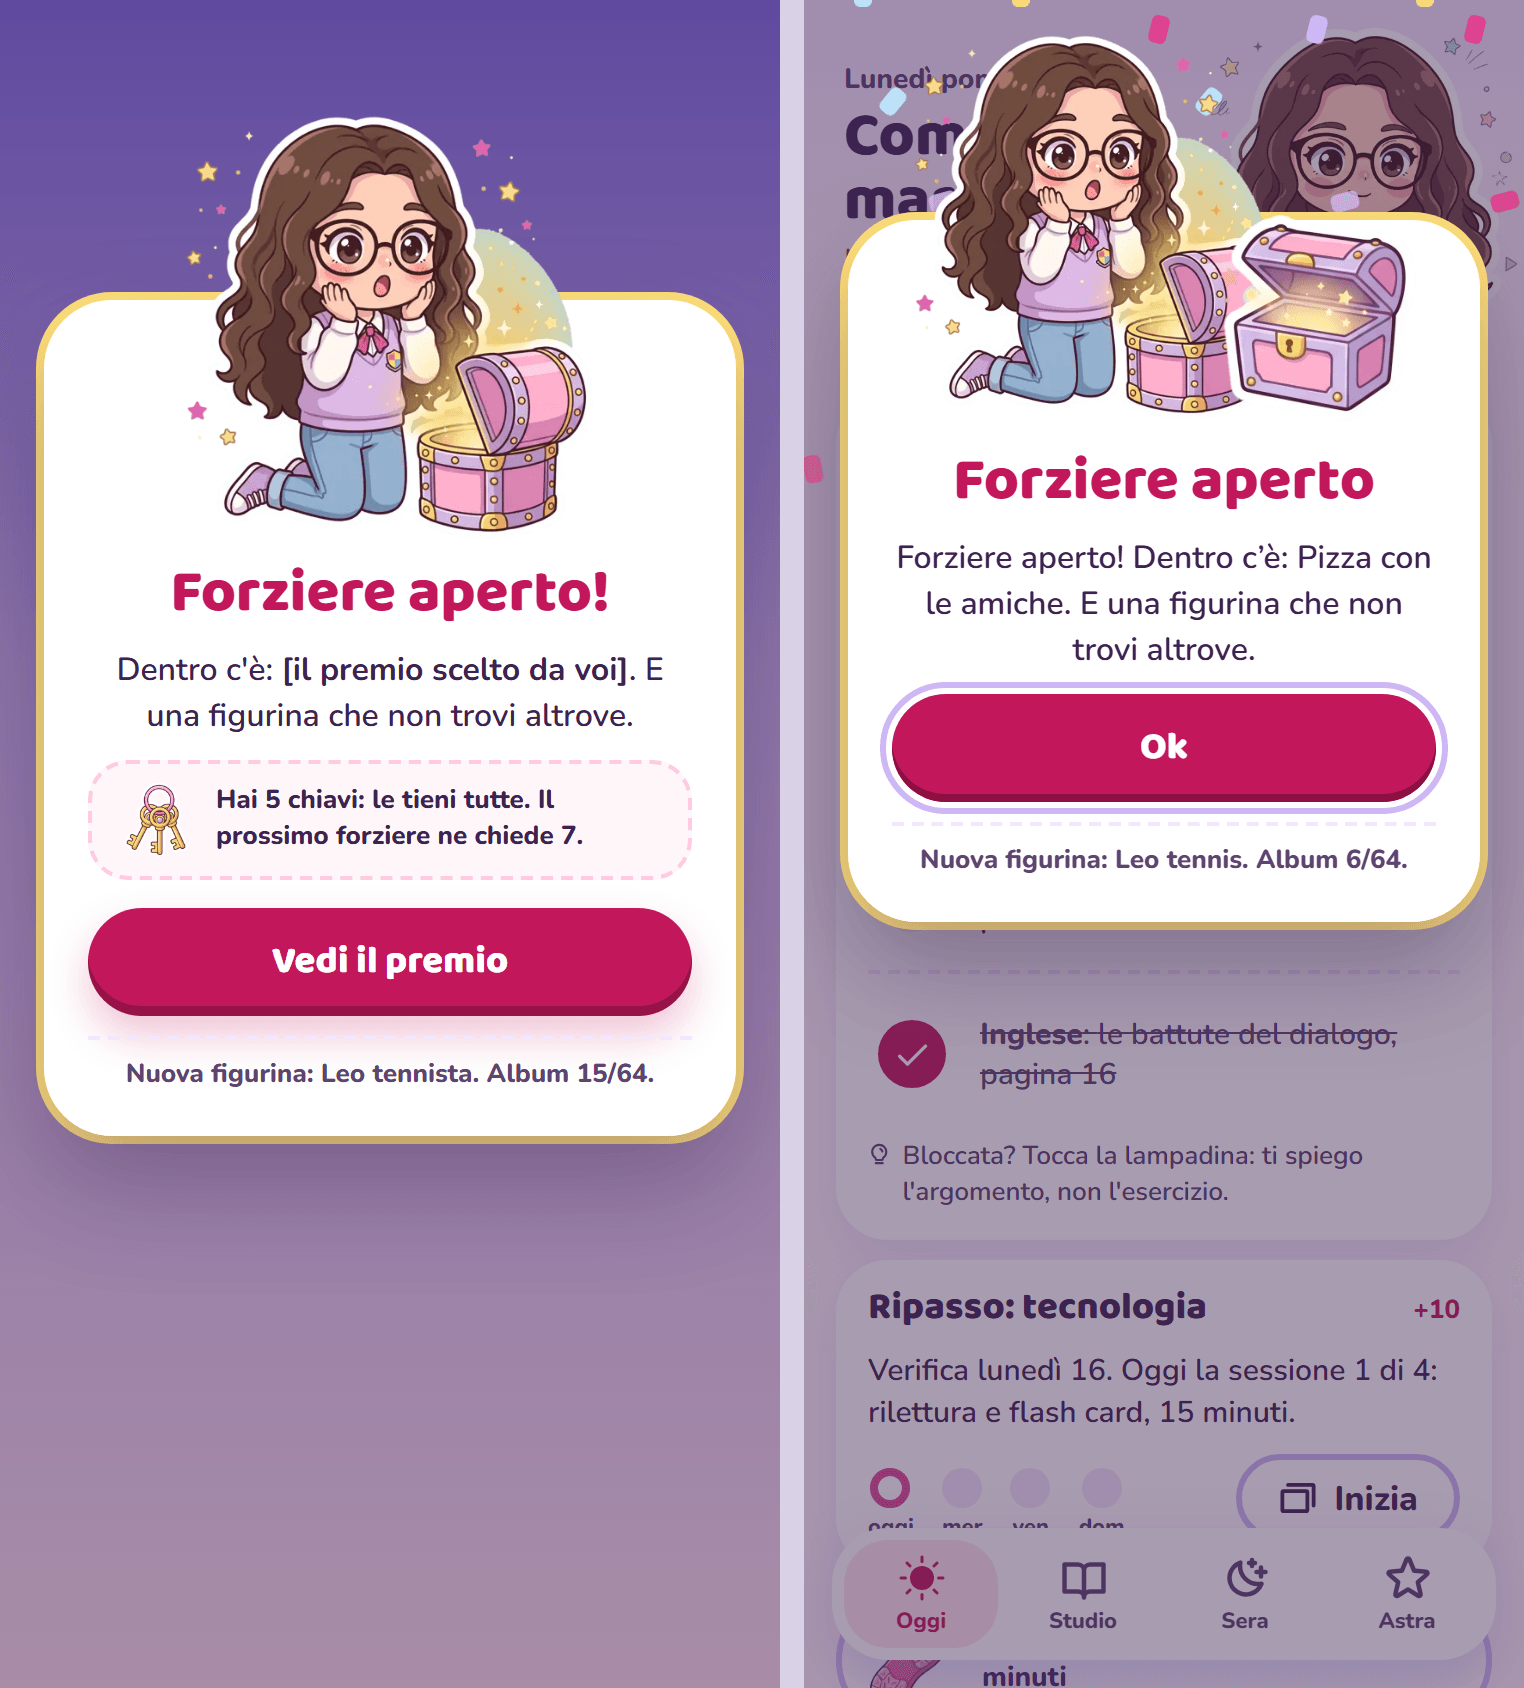
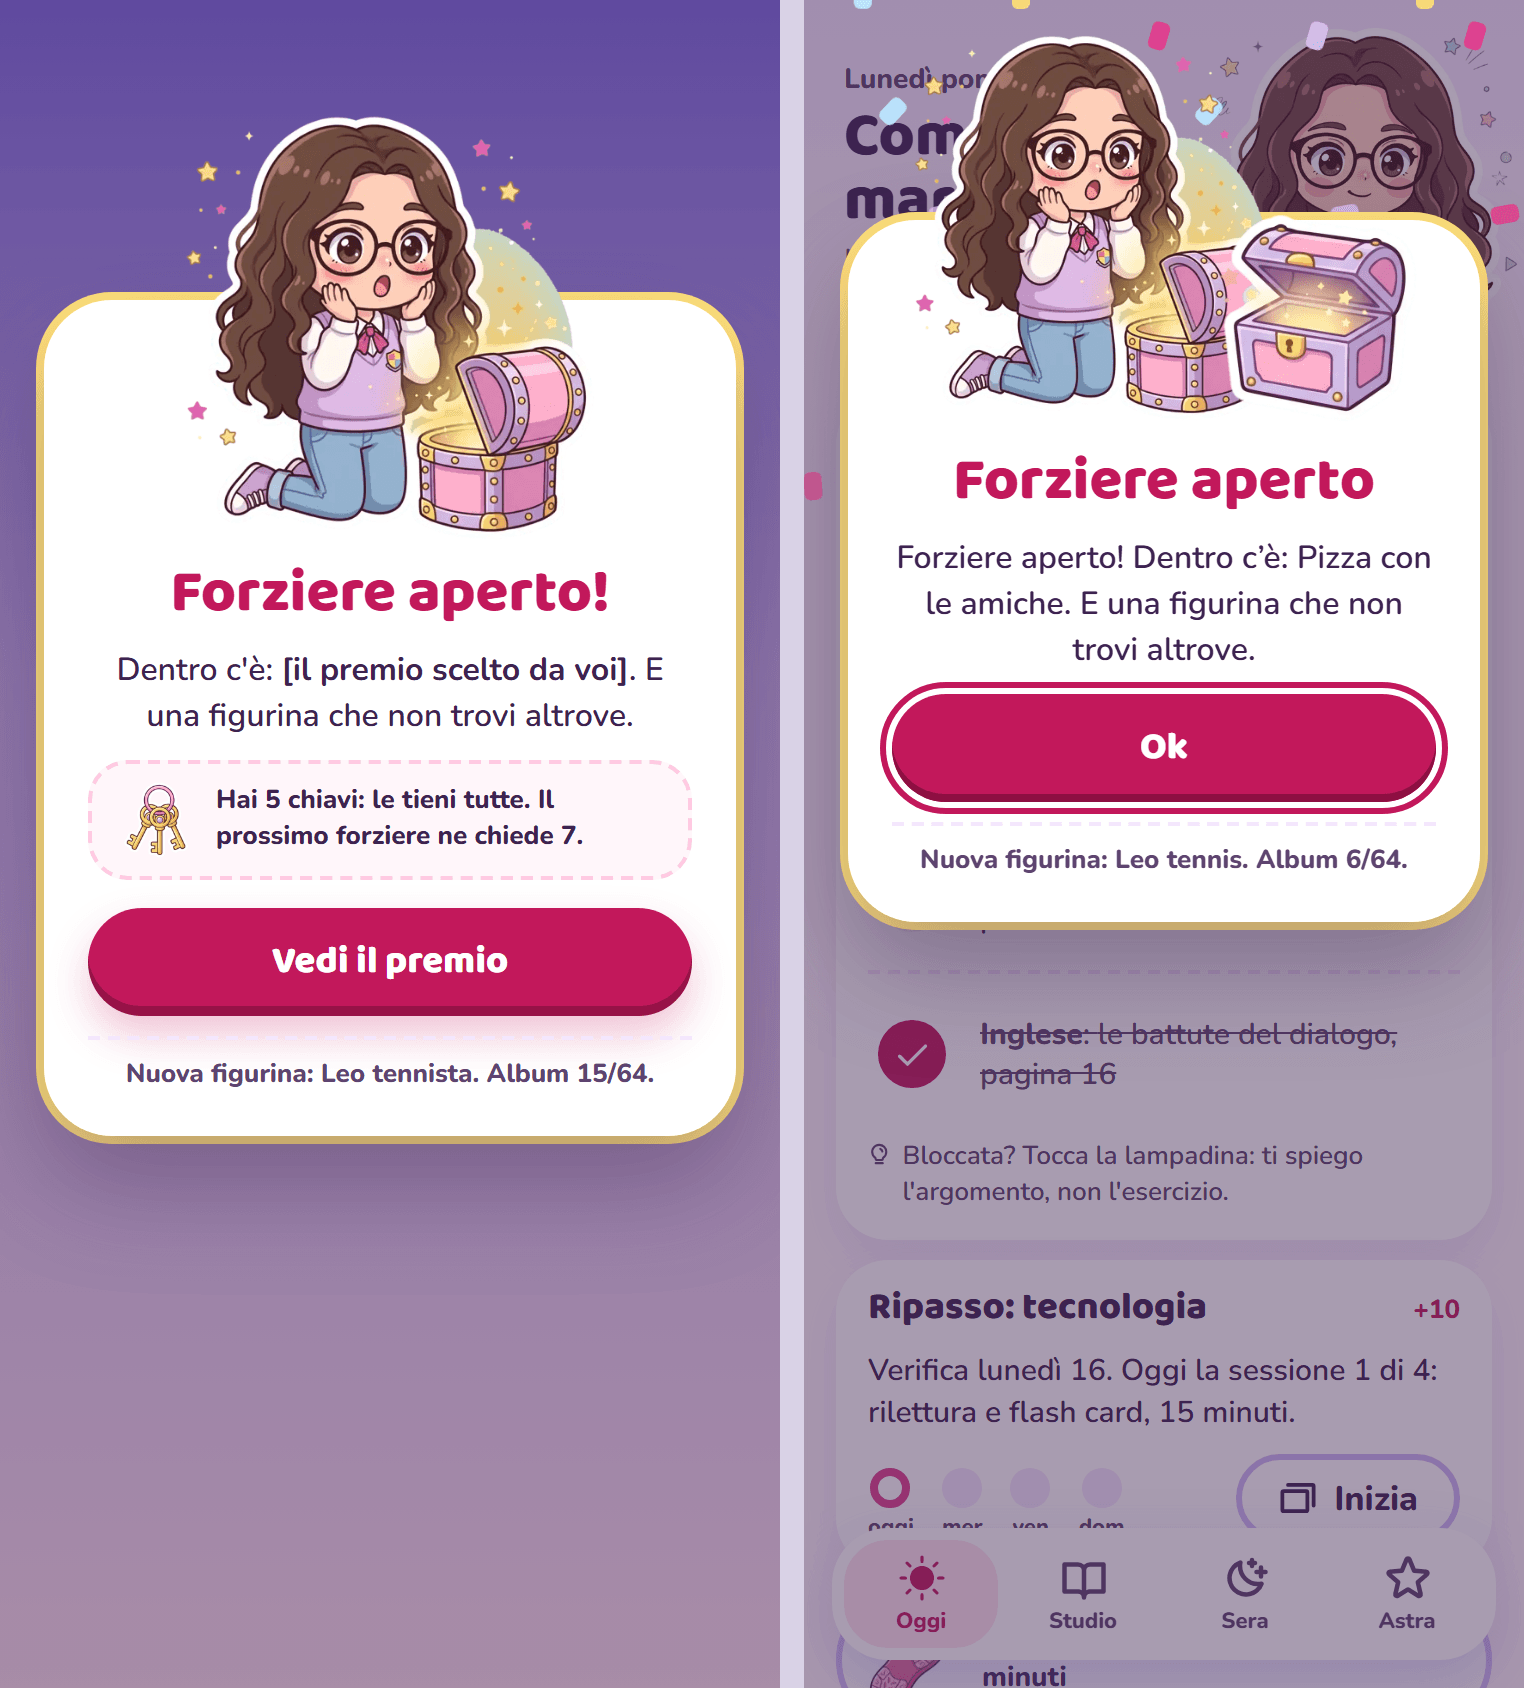
Revisione UI 1 (harden): contrasto, focus, popup in dialog
- popup in <dialog> con showModal: Esc lo chiude (e lo segna visto), la
  pagina dietro è inerte, il focus va sul dialog (niente anello a chi
  tocca); prova nuova
- anello di focus del popup in fucsia scuro invece del lilla (1,8:1)
- bordi di campi e opzioni del quiz con il nuovo --lilla-bordo (3:1)
- '← Astra' su viola dentro una pillola bianca (era 3,4:1)
- .pillola definita: l'avviso dei genitori aveva una classe inesistente
- forziere: il nome accessibile contiene i passi e le chiavi visibili
- flash card e quiz: la barra conta il fatto (quiz vuoto prima della
  prima risposta); prova nuova

diff --git a/src/stile.css b/src/stile.css
@@ -10,6 +10,7 @@
   --rosa: #ffe3ef;
   --lilla: #f3e6fd;
   --lilla-medio: #cdb8f5; /* strada da fare */
+  --lilla-bordo: #9580cf; /* bordi dei campi e delle opzioni: 3:1 su bianco e panna */
   --azzurrino: #bfe6ff;   /* cielo del mattino */
   --burro: #ffe27a;       /* stelle e oro */
   --burro-chiaro: #fff3c4;
@@ -86,7 +87,7 @@ main { position: relative; width: min(100%, 430px); margin: 0 auto; padding: 16p
 .modulo input {
   min-height: 48px;
   padding: 0 16px;
-  border: 2px solid var(--lilla);
+  border: 2px solid var(--lilla-bordo);
   border-radius: 16px;
   font: inherit;
   color: var(--testo);
@@ -196,7 +197,7 @@ main { position: relative; width: min(100%, 430px); margin: 0 auto; padding: 16p
 .opzione {
   display: flex; justify-content: space-between; align-items: center; gap: 10px;
   min-height: 56px; padding: 8px 18px; text-align: left;
-  border: 3px solid var(--lilla); border-radius: 20px; background: #fff;
+  border: 3px solid var(--lilla-bordo); border-radius: 20px; background: #fff;
   color: var(--testo); font: 700 16px Nunito, sans-serif;
 }
 .opzione svg { flex: none; }
@@ -285,7 +286,7 @@ main { position: relative; width: min(100%, 430px); margin: 0 auto; padding: 16p
 .stretto { width: auto; margin-top: 0; padding: 0 16px; min-height: 44px; flex: none; }
 .giorno { border: 0; padding: 0; margin: 0; display: grid; gap: 6px; }
 .giorno legend { font-weight: 800; text-transform: capitalize; margin-bottom: 4px; }
-.modulo textarea { padding: 10px 14px; border: 2px solid var(--lilla); border-radius: 16px; font: inherit; color: var(--testo); }
+.modulo textarea { padding: 10px 14px; border: 2px solid var(--lilla-bordo); border-radius: 16px; font: inherit; color: var(--testo); }
 .genitori .numeri dt:last-child { font-size: 12px; }
 
 /* Prima accensione */
@@ -487,7 +488,7 @@ body[data-sfondo='viola'] { background: linear-gradient(180deg, #7b6ae0 0, var(-
 @keyframes cade { 0% { opacity: 1; transform: translateY(0) rotate(0); } 100% { opacity: 0; transform: translateY(90vh) rotate(540deg); } }
 @media (prefers-reduced-motion: reduce) { .coriandoli { display: none; } }
 .popup .principale:focus { outline: none; }
-.popup .principale:focus-visible { outline: 3px solid var(--lilla-medio); outline-offset: 3px; }
+.popup .principale:focus-visible { outline: 3px solid var(--accento); outline-offset: 3px; }
 
 /* Studio (bozza Studio) */
 .schermo .carta p.data-verifica { font: 800 14px Nunito, sans-serif; color: var(--testo-2); }
@@ -516,3 +517,11 @@ body:has(.studio) main { padding-bottom: calc(24px + env(safe-area-inset-bottom)
 .vetrina .secondario.compatto { margin: 0; align-self: center; }
 .notifiche-anteprima li > span { padding: 10px 12px; border-radius: 16px; background: var(--lilla); font-size: 14px; }
 .notifiche-anteprima li { border-top: 0; padding: 4px 0; }
+
+/* harden (revisione UI): popup in <dialog>, avviso dei genitori, freccia su viola */
+dialog.velo { width: 100%; height: 100%; max-width: none; max-height: none; margin: 0; border: 0; color: inherit; }
+dialog.velo:not([open]) { display: none; }
+dialog.velo::backdrop { background: transparent; }
+.pillola { margin: 0; padding: 10px 16px; border-radius: 999px; background: var(--rosa); color: var(--testo); font: 800 14px/1.35 Nunito, sans-serif; }
+body[data-sfondo='viola'] .indietro { padding: 0 14px 0 10px; border-radius: 999px; background: #fff; box-shadow: var(--ombra); }
+dialog.velo:focus { outline: none; }

diff --git a/src/Ripasso.tsx b/src/Ripasso.tsx
@@ -15,7 +15,7 @@ const STUDIO = R.CONFIG.passi.studio_facoltativo;
 const SECONDI = STUDIO.flashcard_secondi_prima_di_girare;
 
 /** Testata di flash card e quiz (bozze): "← Studio", titolo, "n di N" e la barra. */
-function TestaStudio({ titolo, n, di, etichetta, chiudi }: { titolo: string; n: number; di: number; etichetta: string; chiudi: () => void }) {
+function TestaStudio({ titolo, n, fatte, di, etichetta, chiudi }: { titolo: string; n: number; fatte: number; di: number; etichetta: string; chiudi: () => void }) {
   return (
     <>
       <button className="indietro" onClick={chiudi} aria-label="Torna allo Studio">
@@ -28,8 +28,8 @@ function TestaStudio({ titolo, n, di, etichetta, chiudi }: { titolo: string; n: 
             {n} di {di}
           </span>
         </div>
-        <div className="avanzamento" role="progressbar" aria-label={etichetta} aria-valuemin={0} aria-valuemax={di} aria-valuenow={n}>
-          <span style={{ width: `${(n / di) * 100}%` }} />
+        <div className="avanzamento" role="progressbar" aria-label={etichetta} aria-valuemin={0} aria-valuemax={di} aria-valuenow={fatte}>
+          <span style={{ width: `${(fatte / di) * 100}%` }} />
         </div>
       </div>
     </>
@@ -112,7 +112,7 @@ export function Flashcard({ carte, titolo, sessione, chiudi }: { carte: Carta[];
 
   return (
     <section className="studio">
-      <TestaStudio titolo={titolo} n={i + 1} di={carte.length} etichetta="Carte ripassate" chiudi={chiudi} />
+      <TestaStudio titolo={titolo} n={i + 1} fatte={i} di={carte.length} etichetta="Carte ripassate" chiudi={chiudi} />
       <div className="carta flash">
         <div className="testa-carta">
           <p className="etichetta">Domanda</p>
@@ -213,7 +213,7 @@ export function Quiz({ quizId, domande, titolo, sessione, chiudi }: { quizId: st
 
   return (
     <section className="studio">
-      <TestaStudio titolo={titolo} n={i + 1} di={domande.length} etichetta="Domande del quiz" chiudi={chiudi} />
+      <TestaStudio titolo={titolo} n={i + 1} fatte={i + (scelta === undefined ? 0 : 1)} di={domande.length} etichetta="Domande del quiz" chiudi={chiudi} />
       <h2 className="domanda">{d.testo}</h2>
       <div className="opzioni">
         {d.opzioni.map((o, n) => {

diff --git a/src/Popup.tsx b/src/Popup.tsx
@@ -1,4 +1,4 @@
-import { useEffect, useState } from 'react';
+import { useEffect, useRef, useState } from 'react';
 import manifest from '../data/manifest.json' with { type: 'json' };
 import { oraAdesso } from './giornata';
 import * as K from './lib/copione';
@@ -62,8 +62,24 @@ export function PopupVista({ p, chiudi }: { p: Popup; chiudi: () => void }) {
   const src = immagine(p.posa);
   const malus = t === 'bastone' ? p.testo.match(/[−-]\d+/)?.[0] : undefined;
 
+  const ref = useRef<HTMLDialogElement>(null);
+  useEffect(() => {
+    const d = ref.current;
+    if (d && !d.open) d.showModal?.();
+    d?.focus(); // il focus sul dialog: si legge il titolo, Tab porta a Ok, niente anello a chi tocca
+  }, []);
+
   return (
-    <div className="velo" role="dialog" aria-modal="true" aria-labelledby="popup-titolo">
+    <dialog
+      ref={ref}
+      className="velo"
+      aria-labelledby="popup-titolo"
+      tabIndex={-1}
+      onCancel={(e) => {
+        e.preventDefault();
+        chiudi();
+      }}
+    >
       {CON_CORIANDOLI.includes(p.situazione) && <Coriandoli />}
       <div className={`popup popup-${t}`}>
         <div className="popup-avatar" aria-hidden>
@@ -75,12 +91,12 @@ export function PopupVista({ p, chiudi }: { p: Popup; chiudi: () => void }) {
         <h2 id="popup-titolo">{p.titolo}</h2>
         <p>{p.testo}</p>
         {t === 'lucchetto' && <p className="popup-riquadro">I passi ti fanno camminare, le chiavi aprono i forzieri.</p>}
-        <button className="principale largo" onClick={chiudi} autoFocus>
+        <button className="principale largo" onClick={chiudi}>
           Ok
         </button>
         {p.figurina && <p className="riga-figurina">{p.figurina}</p>}
       </div>
-    </div>
+    </dialog>
   );
 }
 

diff --git a/e2e/popup.e2e.ts b/e2e/popup.e2e.ts
@@ -31,3 +31,17 @@ test('dopo le 21 il rimprovero aspetta: si vede la tappa, con la figurina', asyn
   await expect(page.getByRole('dialog')).toContainText('Tappa 3! Alla prossima: 160 passi.');
   await expect(page.getByText('Nuova figurina: Lani contenta. Album 2/64.')).toBeVisible();
 });
+
+test('il popup è un dialog vero: Esc lo chiude e lo segna come visto, la pagina dietro non si tocca', async ({ page }) => {
+  await page.clock.setFixedTime(new Date('2026-11-09T16:00:00+01:00'));
+  const { t } = await finto(page, coda());
+  await page.goto('/');
+  const d = page.getByRole('dialog');
+  await expect(d).toContainText('Nota disciplinare in Storia');
+  await expect(d).toBeFocused();
+  await page.keyboard.press('Tab');
+  expect(await page.evaluate(() => !!document.activeElement?.closest('main, nav'))).toBe(false);
+  await page.keyboard.press('Escape');
+  await expect(d).toHaveCount(0);
+  expect(t.popup_coda.find((p) => p.id === 'p1')?.mostrato_il).toBeTruthy();
+});

diff --git a/src/Astra.tsx b/src/Astra.tsx
@@ -179,7 +179,7 @@ export default function Astra({ apri }: { apri: (pagina: 'Figurina' | 'Album') =
                 </p>
               )}
               {conf && (
-                <button className={`forziere ${fz?.stato ?? 'chiuso'} ${aDestra !== (t === qui) ? 'destra' : 'sinistra'}`} onClick={() => setScelto(conf.n)} aria-label={`Forziere ${conf.n}`}>
+                <button className={`forziere ${fz?.stato ?? 'chiuso'} ${aDestra !== (t === qui) ? 'destra' : 'sinistra'}`} onClick={() => setScelto(conf.n)} aria-label={`Forziere ${conf.n}: ${SOGLIE[conf.tappa - 1].toLocaleString('it-IT')} · ${conf.chiavi} chiavi`}>
                   <img
                     src={img('oggetti', conf.n === 9 ? 'forziere-cima' : ['aperto', 'consegnato'].includes(fz?.stato ?? '') ? 'forziere-aperto' : 'forziere-chiuso')}
                     alt=""

diff --git a/e2e/studio.e2e.ts b/e2e/studio.e2e.ts
@@ -81,9 +81,12 @@ test('quiz: spiegazione dopo ogni risposta, sbagliate salvate', async ({ page })
   await page.goto('/');
   await page.getByRole('button', { name: 'Studio' }).click();
   await page.getByRole('button', { name: 'Prova il quiz' }).click();
+  const barra = page.getByRole('progressbar', { name: 'Domande del quiz' });
+  await expect(barra).toHaveAttribute('aria-valuenow', '0');
 
   await page.getByRole('button', { name: '2', exact: true }).click();
   await expect(page.getByRole('status')).toHaveText('Non era questa. 10 diviso 2 fa 5.');
+  await expect(barra).toHaveAttribute('aria-valuenow', '1');
   await page.getByRole('button', { name: 'Avanti' }).click();
   await page.getByRole('button', { name: 'minore di 1' }).click();
   await expect(page.getByRole('status')).toContainText('Giusto!');
